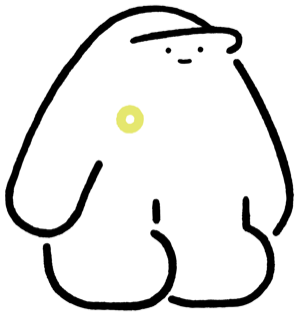
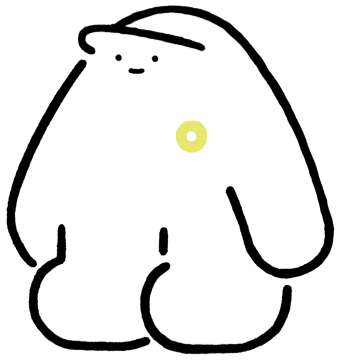
Mascot: face left and enlarge over the petition button
Swap to the left-facing brand character (VZT_char_basic_L) and bump the
peeking mascot from 60→80px desktop / 50→64px mobile.

diff --git a/index.html b/index.html
@@ -442,7 +442,7 @@ body { font-family: var(--font-zh); background: var(--grey-4); color: var(--blac
 }
 .fp-wrap .fp-mascot {
   position: absolute; z-index: 1; right: 18px; bottom: 100%;
-  width: 60px; height: auto; margin-bottom: -12px;
+  width: 80px; height: auto; margin-bottom: -14px;
   pointer-events: none; user-select: none;
   filter: drop-shadow(0 3px 3px rgba(0,0,0,0.16));
   transition: transform .18s ease;
@@ -472,7 +472,7 @@ body { font-family: var(--font-zh); background: var(--grey-4); color: var(--blac
   .demands-grid { grid-template-columns: 1fr; gap: 12px; }
   .fp-wrap { bottom: 12px; right: 12px; }
   .float-petition { padding: 10px 14px; font-size: 12px; }
-  .fp-wrap .fp-mascot { width: 50px; margin-bottom: -10px; }
+  .fp-wrap .fp-mascot { width: 64px; margin-bottom: -12px; }
 }
 
 .section { margin-bottom: 48px; }

diff --git a/vision.html b/vision.html
@@ -220,7 +220,7 @@ body.lang-en .t-en { display: inline; }
 }
 .fp-wrap .fp-mascot {
   position: absolute; z-index: 1; right: 18px; bottom: 100%;
-  width: 60px; height: auto; margin-bottom: -12px;
+  width: 80px; height: auto; margin-bottom: -14px;
   pointer-events: none; user-select: none;
   filter: drop-shadow(0 3px 3px rgba(0,0,0,0.16));
   transition: transform .18s ease;
@@ -270,7 +270,7 @@ body.lang-en .t-en { display: inline; }
   .demands-grid { grid-template-columns: 1fr; gap: 12px; }
   .fp-wrap { bottom: 12px; right: 12px; }
   .float-petition { padding: 10px 14px; font-size: 12px; }
-  .fp-wrap .fp-mascot { width: 50px; margin-bottom: -10px; }
+  .fp-wrap .fp-mascot { width: 64px; margin-bottom: -12px; }
   .cf-wrap { padding: 28px 22px; }
 }
 </style>

diff --git a/city.html b/city.html
@@ -120,7 +120,7 @@ body {
 }
 .fp-wrap .fp-mascot {
   position: absolute; z-index: 1; right: 18px; bottom: 100%;
-  width: 60px; height: auto; margin-bottom: -12px;
+  width: 80px; height: auto; margin-bottom: -14px;
   pointer-events: none; user-select: none;
   filter: drop-shadow(0 3px 3px rgba(0,0,0,0.16));
   transition: transform .18s ease;
@@ -140,7 +140,7 @@ body {
 @media (max-width: 600px) {
   .fp-wrap { bottom: 12px; right: 12px; }
   .float-petition { padding: 10px 14px; font-size: 12px; }
-  .fp-wrap .fp-mascot { width: 50px; margin-bottom: -10px; }
+  .fp-wrap .fp-mascot { width: 64px; margin-bottom: -12px; }
 }
 
 /* ── Section titles ── */
